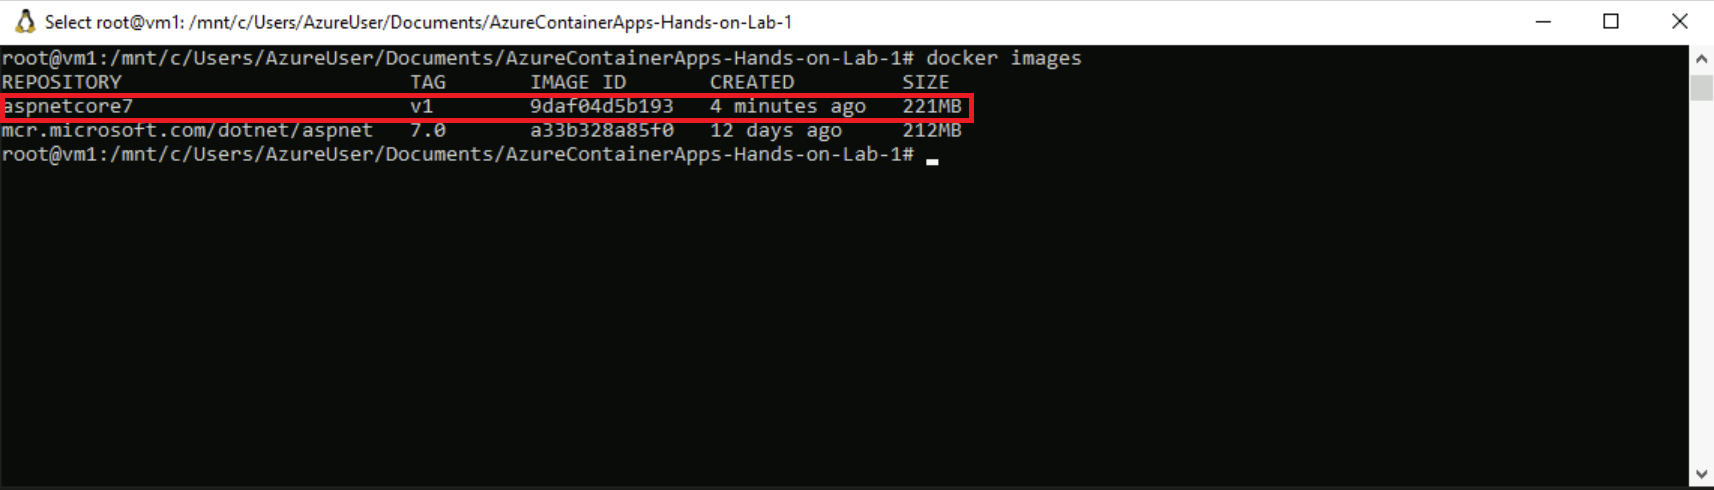
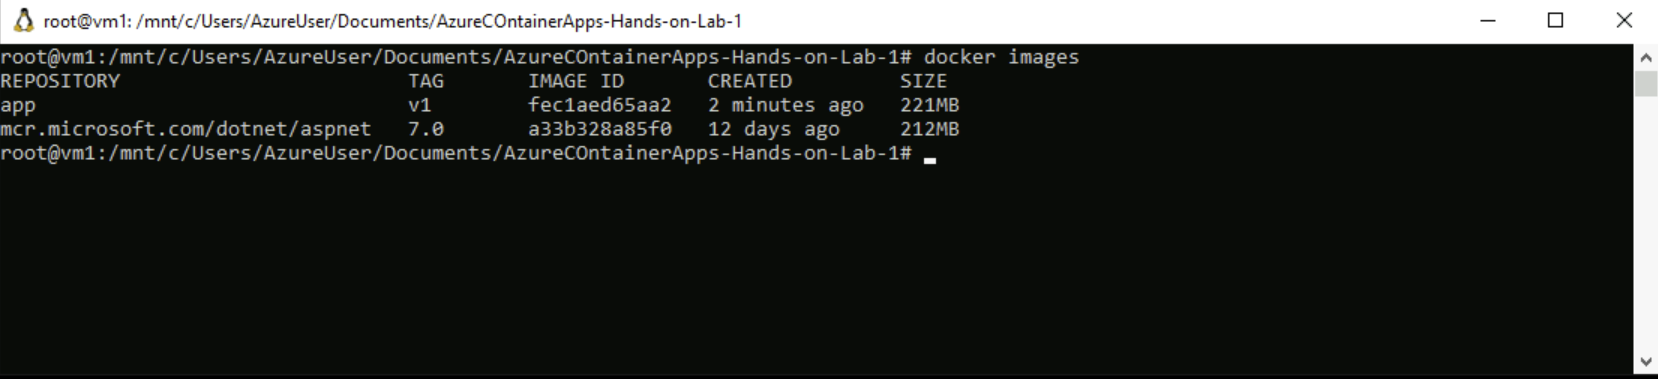
Update HOL guide (ex2)

Changed region(s): [[0.0, 0.0, 1.0, 0.4354], [0.0, 0.9288, 1.0, 1.0]]

diff --git a/HOL step-by-step Guide.md b/HOL step-by-step Guide.md
@@ -186,131 +186,67 @@ Mar. 2023
 
 - 操作用のプロンプトが起動
 
+- WSL で Windows 側のマウントされたディレクトリへ移動
+
+  ```
+  cd /mnt/c/Users/AzureUser/Documents/AzureContainerApps-Hands-on-Lab-1
+  ```
+
+- docker build コマンドを実行しイメージを構築
+
   <details>
     <summary>C#</summary>
 
-    - WSL で Windows 側のマウントされたディレクトリへ移動
+    ```
+    docker build -t app:v1 -f .docker/CS/dockerfile .
+    ```
 
-      ```
-      cd /mnt/c/Users/AzureUser/Documents/AzureContainerApps-Hands-on-Lab-1
-      ```
+    ※ コマンドのオプション
 
-    - docker build コマンドを実行しイメージを構築
+    - **-t**: 名前とタグを **名前:タグ** の形式で指定
 
-      ```
-      docker build -t aspnetcore7:v1 -f .docker/CS/dockerfile .
-      ```
+    - **-f**: dockerfile のパスを指定
 
-      ※コマンドのオプション
-
-      - **-t**: 名前とタグを **名前:タグ** の形式で指定
-
-      - **-f**: dockerfile のパスを指定
-
-      <img src="images/docker-build-01.png" />
-
-    - docker images コマンドを実行し、構築されたイメージが表示されることを確認
-
-      ```
-      docker images
-      ```
-
-      <img src="images/docker-build-02.png" />
-    
+    <img src="images/docker-build-01.png" />
   </details>
 
   <details>
     <summary>Java</summary>
-
+    
   </details>
 
+- docker images コマンドを実行し、構築されたイメージが表示されることを確認
+
+  ```
+  docker images
+  ```
+
+  <img src="images/docker-build-02.png" />
+    
 <br />
 
-### Task 5: イメージからコンテナを起動
+### Task 5: イメージからコンテナーを起動
 
 <details>
   <summary>C#</summary>
 
-  - docker run コマンドを実行し、作成したイメージからコンテナを起動
+  - docker run コマンドを実行し、作成したイメージからコンテナーを起動
 
     ```
-    docker run -p 8080:80 aspnetcore7:v1
+    docker run -p 8080:80 app:v1
     ```
 
-    ※コマンドのオプション
+    ※ コマンドのオプション
 
-      - **-p**: ポート マッピング（コンテナの 80 番ポートを 8080 番ポートへマッピング）
+      - **-p**: ポート マッピング（コンテナーの 80 番ポートを 8080 番ポートへマッピング）
 
-    <img src="images/docker-run-01.png" />
+    <img src="images/cs-docker-run-01.png" />
 
   - Web ブラウザを起動し http://localhost:8080 へアクセス
 
-    <img src="images/docker-run-02.png" />
+    <img src="images/cs-docker-run-02.png" />
 
-  - 操作プロンプトで Ctrl + C キーを押下し、アプリケーションを終了
-
-  - コンテナ一覧を表示するコマンドを実行
-
-    ```
-    docker ps -a
-    ```
-
-    ※コマンドのオプション
-
-      - **-a**: 起動中・停止中を含め、すべてのコンテナを表示
-
-    <img src="images/docker-run-03.png" />
-
-  - 再度、イメージからコンテナを起動
-
-    ```
-    docker run -d --rm -p 8080:80 aspnetcore7:v1
-    ```
-
-    ※コマンドのオプション
-
-      - **-d**: デタッチド モードでコンテナを起動
-
-      - **--rm**: コンテナ終了時にコンテナを削除
-
-      - **-p**: ポート マッピング（コンテナの 80 番ポートを 8080 番ポートへマッピング）
-
-    <img src="images/docker-run-04.png" />
-
-  - 起動中のコンテナを確認
-
-    ```
-    docker ps
-    ```
-    <img src="images/docker-run-05.png" />
-
-    ※CONTAINER ID を確認
-
-  - Web ブラウザを起動し http://localhost:8080 へアクセス
-
-  - コンテナを停止 (docker ps コマンドで確認した CONTAINER ID を指定)
-
-    ```
-    docker stop <CONTAINER ID>
-    ```
-
-  - コンテナ一覧を表示するコマンドを実行
-
-    ```
-    docker ps -a
-    ```
-
-  - 2 度目に実行したコンテナが削除されていることを確認
-
-    <img src="images/docker-run-03.png" />
-
-  - 停止中のコンテナを削除 (1 度目に実行したコンテナを削除)
-
-    ```
-    docker rm <CONTAINER ID> -f
-    ```
-
-    <img src="images/docker-run-06.png" />
+  - 操作用のプロンプトで Ctrl + P, Ctrl + Q キーを押下し、アプリケーションを終了
 
 </details>
 
@@ -319,13 +255,196 @@ Mar. 2023
 
 </details>
 
+- コンテナー一覧を表示するコマンドを実行
+
+  ```
+  docker ps -a
+  ```
+
+  ※ コマンドのオプション
+
+    - **-a**: 起動中・停止中を含め、すべてのコンテナを表示
+
+  <img src="images/docker-run-03.png" />
+
+- 再度、イメージからコンテナーを起動
+
+  ```
+  docker run -d --rm -p 8080:80 app:v1
+  ```
+
+  ※コマンドのオプション
+
+    - **-d**: デタッチド モードでコンテナを起動
+
+    - **--rm**: コンテナ終了時にコンテナを削除
+
+    - **-p**: ポート マッピング（コンテナの 80 番ポートを 8080 番ポートへマッピング）
+
+  <img src="images/docker-run-04.png" />
+
+- 起動中のコンテナーを確認
+
+  ```
+  docker ps
+  ```
+  <img src="images/docker-run-05.png" />
+
+  ※ CONTAINER ID を確認
+
+- Web ブラウザを起動し http://localhost:8080 へアクセス
+
+- コンテナーを停止 (docker ps コマンドで確認した CONTAINER ID を指定)
+
+  ```
+  docker stop <CONTAINER ID>
+  ```
+
+- コンテナー一覧を表示するコマンドを実行
+
+  ```
+  docker ps -a
+  ```
+
+  ※ 2 度目に実行したコンテナーが表示されないことを確認
+
+- 停止中のコンテナーを削除 (1 度目に実行したコンテナを削除)
+
+  ```
+  docker rm <CONTAINER ID> -f
+  ```
+
+  <img src="images/docker-run-06.png" />
+
+- コンテナー一覧を表示するコマンドを実行
+
+  ```
+  docker ps -a
+  ```
+
+  ※ コンテナーが表示されないことを確認
+
 <br />
 
 ## Exercise 2: Azure Container Registry の作成とイメージのプッシュ
 
+### Task 1: Azure Container Registry の作成
+
+- Web ブラウザで [Azure ポータル](#https://portal.azure.com)へアクセス
+
+- ポータルのトップ画面で「**+ リソースの作成**」をクリック
+
+  <img src="images/create-azure-resources.png" />
+
+- 左側のメニューで「**コンテナー**」を選択し、「**Container Registry**」の「**作成**」をクリック
+
+  <img src="images/create-azure-container-registry-01.png" />
+
+- コンテナー レジストリの作成
+
+  - 「**基本**」
+
+    - **プロジェクト詳細**
+
+      - **サブスクリプション**: ワークショップで使用するサブスクリプション
+
+      - **リソース グループ**: ワークショップで使用するリソース グループ
+
+    - **インスタンスの詳細**
+
+      - **レジストリ名**: 任意 (英大文字小文字、数字のみで 5 から 50 文字)
+
+      - **場所**: 任意
+
+      - **SKU**: Standard
+
+      <img src="images/create-azure-container-registry-02.png" />
+
+  - 「**ネットワーク**」
+
+    - **接続の構成**: パブリック アクセス (すべてのネットワーク)
+
+      <img src="images/create-azure-container-registry-03.png" />
+
+      ※ Premium SKU 選択時のみ構成可
+
+  - 「**暗号化**」
+
+    - **カスタマー マネージド キー**: 無効
+
+      <img src="images/create-azure-container-registry-04.png" />
+
+      ※ Premium SKU 選択時のみ構成可
+
+- 「**確認および作成**」をクリックし、指定した内容を確認後、「**作成**」をクリック
+
+  <img src="images/create-azure-container-registry-05.png" />
+
+<br />
+
+### Task 2: イメージをレジストリへプッシュ
+
+- Azure ポータルで作成したコンテナー レジストリの管理ブレードへアクセス
+
+- 左側のメニューから「**アクセス キー**」を選択
+
+- 「**管理者ユーザー**」を有効化
+
+  <img src="images/azure-container-registry-key.png" />
+
+- 操作用のプロンプトでレジストリへログイン
+
+  ```
+  docker login yourregistry.azurecr.io
+  ```
+
+  ※ youreregistry.azurecr.io を作成したコンテナー レジストリのログイン サーバーに変更
+
+  ※ コンテナー レジストリのログイン サーバー名は管理ブレードのアクセス キーから確認可
+
+- Username, Password を指定し、ログインを実行
+
+  ※ コンテナー レジストリの管理ブレードのアクセス キーから取得できるユーザー名とパスワードを使用
+
+- レジストリへの完全修飾パスを使用して、イメージのエイリアスを作成
+
+  ```
+  docker tag app:v1 yourregistry.azurecr.io/app:v1
+  ```
+
+  ※ youreregistry.azurecr.io を作成したコンテナー レジストリのログイン サーバーに変更
+
+- エイリアスを付与したイメージが表示されることを確認
+
+  ```
+  docker images
+  ```
+
+  <img src="images/docker-push-01.png" />
+
+- docker push を使用してレジストリへプッシュ
+
+  ```
+  docker push yourregistry.azurecr.io/app:v1
+  ```
+
+  ※ youreregistry.azurecr.io を作成したコンテナー レジストリのログイン サーバーに変更
+
+  <img src="images/docker-push-02.png" />
+
+- Azure ポータルで作成したコンテナー レジストリの管理ブレードへアクセス
+
+- 左側のメニューから「**リポジトリ**」を選択
+
+- リポジトリ内のイメージを確認
+
+  <img src="images/docker-push-02.png" />
+
 <br />
 
 ## Exercise 3: Azure Container Apps の作成とイメージの展開
+
+### Task 1: コンテナー アプリの作成
 
 <br />
 
